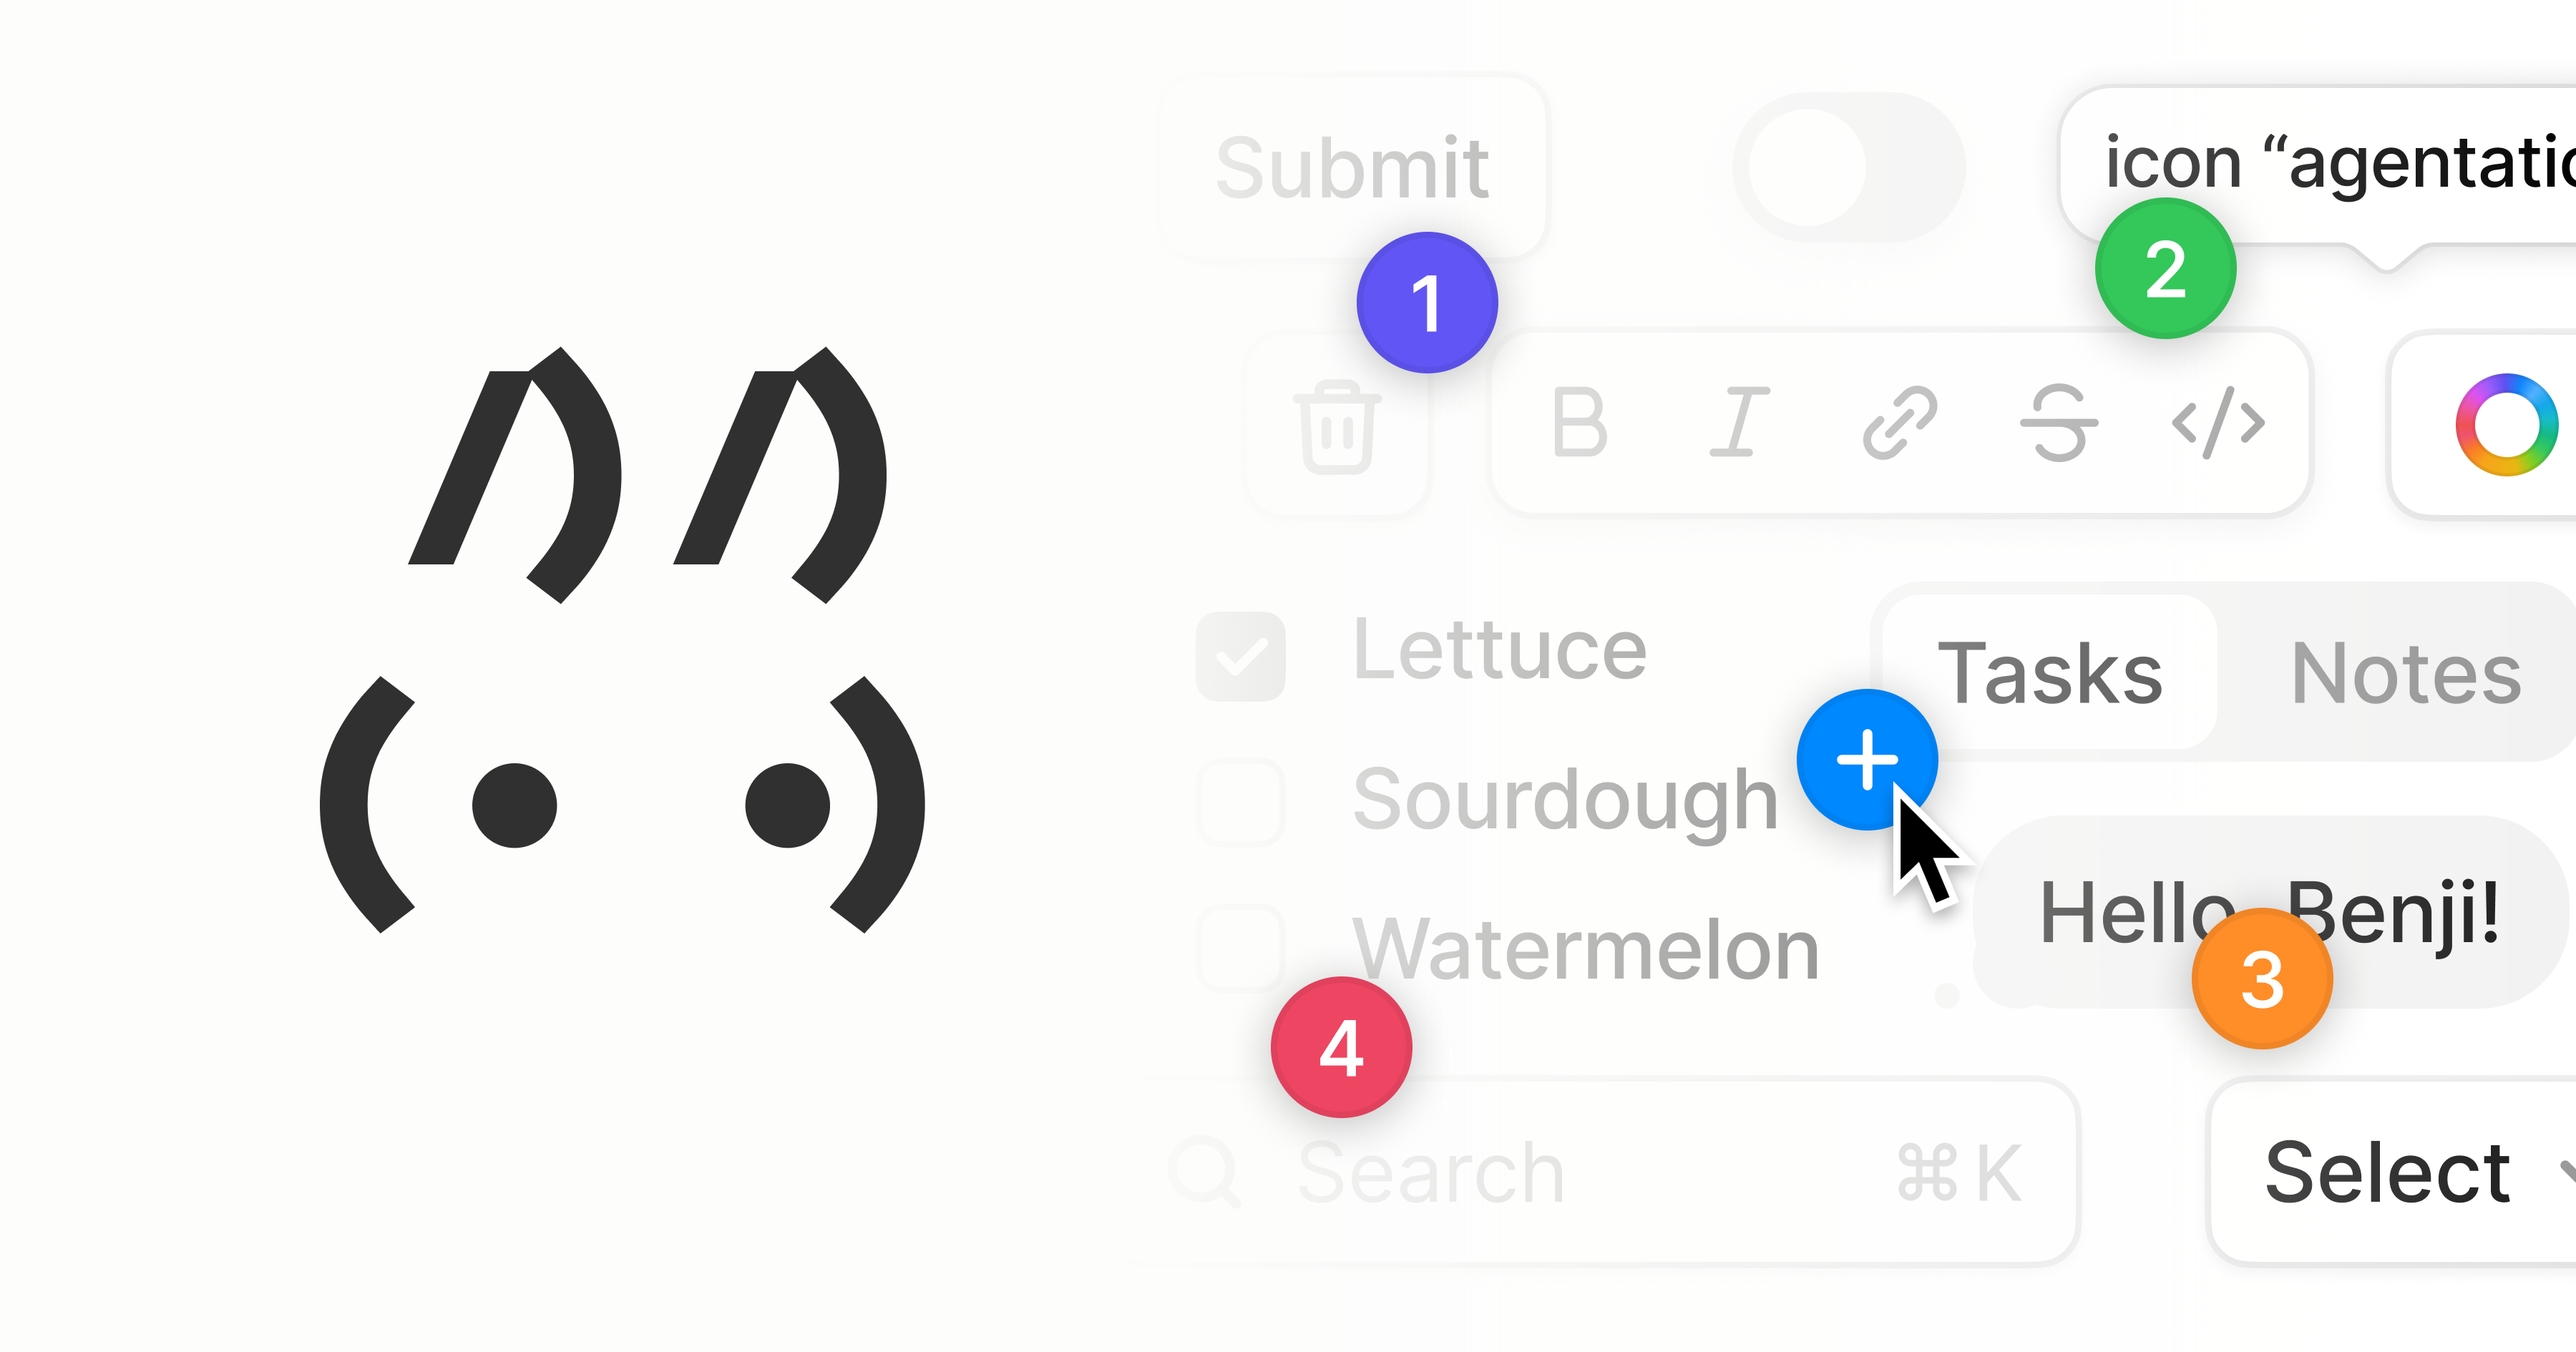
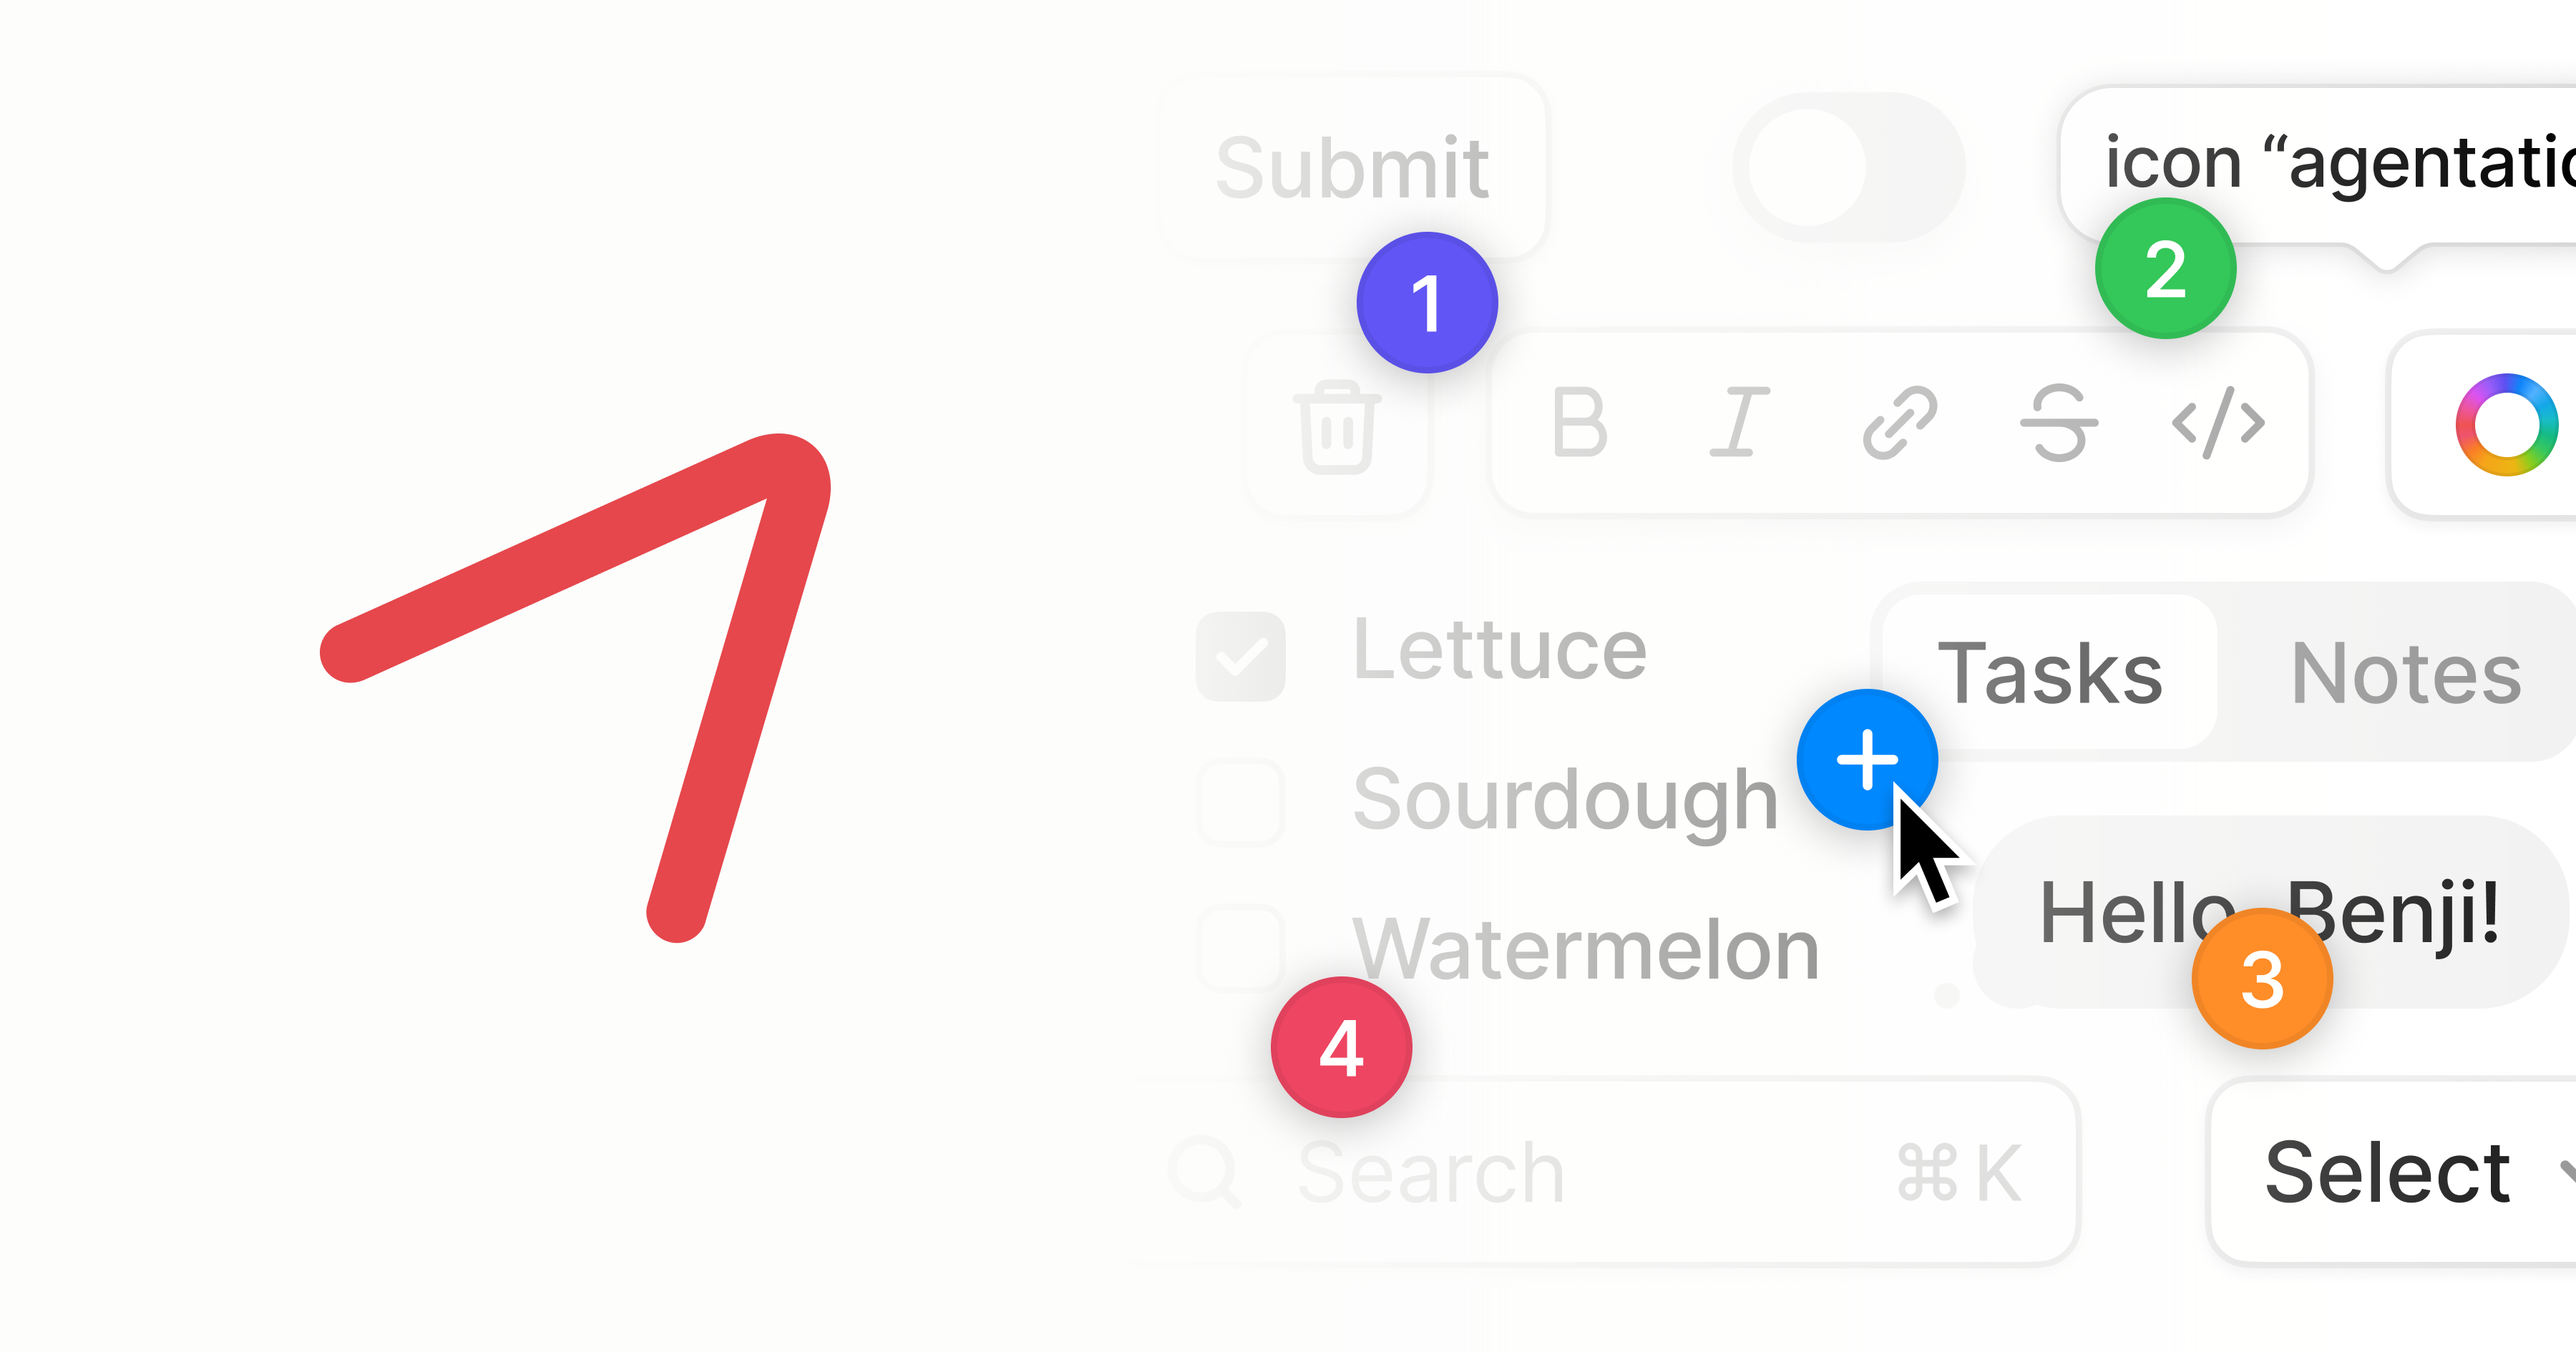
Update OG image and fix metadataBase domain

Changed region(s): [[0.1244, 0.2497, 0.3733, 0.718], [0.1867, 0.5619, 0.2178, 0.6243]]

diff --git a/example/src/app/layout.tsx b/example/src/app/layout.tsx
@@ -6,7 +6,7 @@ import { MobileNav } from "./MobileNav";
 import { MobileNotice } from "./MobileNotice";
 
 export const metadata: Metadata = {
-  metadataBase: new URL("https://agentation.dev"),
+  metadataBase: new URL("https://agentation.com"),
   title: "Agentation",
   description: "The visual feedback tool for agents.",
   openGraph: {
